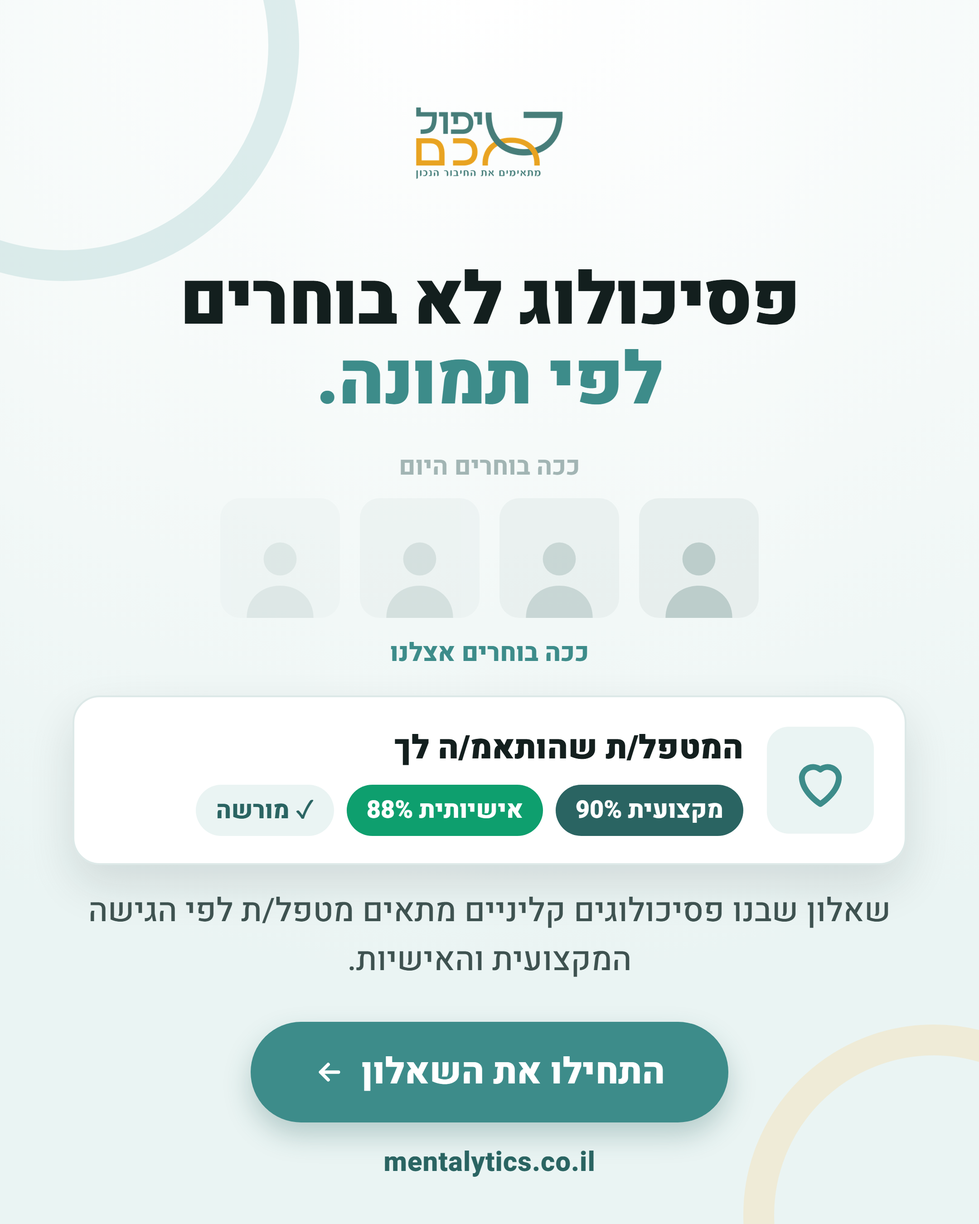
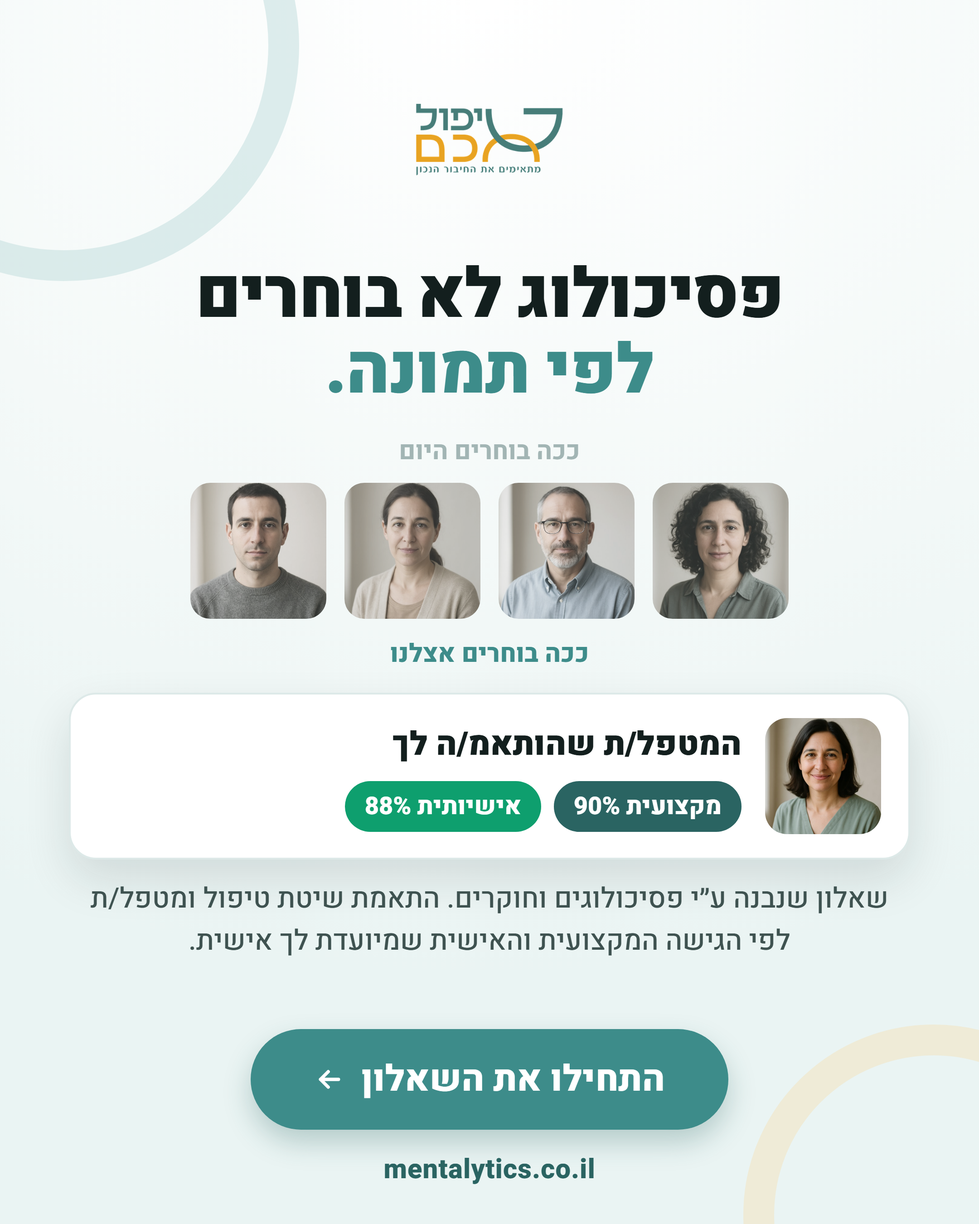
feat(ads): the owner's round of edits to the Facebook kit, with real faces
- Patients A shows AI-generated therapist portraits in the "how people choose
  today" row and in the matched card (no name or licence on any face).
- Patients B opens with "מחפשים פסיכולוג?"; a -safe twin opens with
  "איך מוצאים פסיכולוג?" in case Meta reads the first as a personal attribute.
- Both patient ads and both recruitment ads carry the owner's "built by
  psychologists and researchers" line; recruitment gets his chip.
- The free/promoted line says "refund if there are no contacts", which is
  what the purchase terms promise, not "no suitable contacts".
- The copy doc covers setting up from the phone and quotes the July ads.

diff --git a/docs/ads-images/meta-2026-09/gen.py b/docs/ads-images/meta-2026-09/gen.py
@@ -28,20 +28,20 @@ HEAD = """<!doctype html><html dir="rtl" lang="he"><head><meta charset="utf-8">
 *{box-sizing:border-box;margin:0;padding:0}
 html,body{width:1080px;height:1350px;overflow:hidden;font-family:Heebo,sans-serif;color:var(--text)}
 body{background:radial-gradient(120% 80% at 50% 0%,#ffffff 0%,#F4F9F8 55%,var(--teal-pale) 100%);
- display:flex;flex-direction:column;align-items:center;padding:52px 80px 46px;position:relative}
+ display:flex;flex-direction:column;align-items:center;padding:48px 76px 38px;position:relative}
 .ring{position:absolute;border-radius:50%;border:34px solid;opacity:.55;pointer-events:none}
 .logo{width:210px;height:auto;margin-bottom:26px}
 .chip{display:inline-block;background:var(--gold-pale);color:var(--gold-dark);border:2px solid #F0DDB0;
  font-weight:800;font-size:30px;border-radius:50px;padding:10px 30px;margin-bottom:26px}
 h1{font-weight:900;font-size:84px;line-height:1.1;text-align:center;letter-spacing:-1px}
 h1 em{font-style:normal;color:var(--teal)}
-.sub{font-size:36px;line-height:1.5;color:var(--text-2);text-align:center;margin-top:24px;margin-bottom:34px;font-weight:500}
+.sub{font-size:36px;line-height:1.5;color:var(--text-2);text-align:center;margin-top:20px;margin-bottom:26px;font-weight:500}
 .btn{margin-top:auto;background:var(--teal);color:#fff;font-weight:800;font-size:40px;border-radius:60px;
  padding:26px 70px;box-shadow:0 14px 30px rgba(42,100,98,.28);display:flex;align-items:center;gap:18px}
 .url{margin-top:22px;font-size:30px;font-weight:800;color:var(--teal-dark);letter-spacing:.5px;direction:ltr}
 .card{background:#fff;border:2px solid var(--line);border-radius:30px;box-shadow:0 22px 50px rgba(19,31,30,.12)}
 .check{display:flex;align-items:center;gap:22px;background:#fff;border:2px solid var(--line);border-radius:60px;
- padding:20px 32px;font-size:34px;font-weight:700;color:var(--text-2);margin-top:18px;width:100%}
+ padding:16px 28px;font-size:31px;font-weight:700;color:var(--text-2);margin-top:14px;width:100%}
 .check i{flex:none;width:46px;height:46px;border-radius:50%;background:var(--teal-pale);display:flex;align-items:center;justify-content:center}
 </style></head><body>
 <div class="ring" style="width:520px;height:520px;top:-210px;left:-190px;border-color:var(--teal-mid)"></div>
@@ -54,6 +54,19 @@ ARROW = ('<svg width="34" height="34" viewBox="0 0 24 24"><path d="M19 12H5M11 6
          'stroke="#fff" stroke-width="2.6" stroke-linecap="round" stroke-linejoin="round"/></svg>')
 
 
+PORTRAITS = os.path.join(W, "portraits")
+# The owner's own wording (21/9/2026). The refund line follows the purchase terms
+# (section 9): a refund for the first two months only if no contact came in at all.
+SUB_PATIENTS = "שאלון שנבנה ע״י פסיכולוגים וחוקרים. התאמת שיטת טיפול ומטפל/ת לפי הגישה המקצועית והאישית שמיועדת לך אישית."
+SUB_RECRUIT = "שאלון שנבנה ע״י פסיכולוגים וחוקרים. התאמת שיטת טיפול ומטפל/ת לפי הגישה המקצועית."
+CHIP_RECRUIT = "פסיכולוג/עו״ס/מטפלת רגשית?"
+REFUND = "מסלול חינמי, ומסלול מקודם עם החזר אם אין פניות"
+
+
+def face(name):
+    return "file:///" + os.path.join(PORTRAITS, name + ".jpg").replace("\\", "/")
+
+
 def foot(label):
     return '<div class="btn">' + label + ARROW + '</div><div class="url">mentalytics.co.il</div></body></html>'
 
@@ -62,39 +75,36 @@ def head():
     return HEAD.replace("%(logo)s", LOGO)
 
 
-def silhouette(op):
-    return ('<div style="width:132px;height:132px;border-radius:22px;background:#E6EEED;opacity:' + op +
-            ';display:flex;align-items:flex-end;justify-content:center;overflow:hidden">'
-            '<svg width="104" height="104" viewBox="0 0 24 24"><circle cx="12" cy="9" r="4.2" fill="#B7C9C7"/>'
-            '<path d="M3.5 24c0-5 3.8-8.2 8.5-8.2S20.5 19 20.5 24z" fill="#B7C9C7"/></svg></div>')
+def photo(name, today):
+    # "Today" faces are slightly muted: the row is the directory experience, not the product.
+    filt = "filter:saturate(.55);opacity:.82;" if today else ""
+    return ('<img src="' + face(name) + '" style="width:150px;height:150px;border-radius:22px;object-fit:cover;' + filt + '">')
 
 
 def p_a():
     """Patients A: the contrast. How people pick today (a wall of photos) against a match."""
-    photos = "".join(silhouette(o) for o in (".9", ".7", ".5", ".35"))
-    match = """<div class="card" style="width:100%;padding:30px 34px;margin-top:26px;display:flex;align-items:center;gap:26px">
- <div style="flex:none;width:118px;height:118px;border-radius:24px;background:var(--teal-pale);display:flex;align-items:center;justify-content:center">
-  <svg width="70" height="70" viewBox="0 0 24 24"><path d="M12 21s-7-4.4-7-10.2A4.3 4.3 0 0 1 12 8a4.3 4.3 0 0 1 7 2.8C19 16.6 12 21 12 21z" fill="none" stroke="#3D8C8A" stroke-width="2.2" stroke-linejoin="round"/></svg></div>
+    photos = "".join(photo("grid-" + str(i), True) for i in (1, 2, 3, 4))
+    match = """<div class="card" style="width:100%;padding:26px 30px;margin-top:22px;display:flex;align-items:center;gap:26px">
+ <img src='""" + face("match") + """' style="flex:none;width:128px;height:128px;border-radius:24px;object-fit:cover">
  <div style="flex:1">
   <div style="font-size:36px;font-weight:900">המטפל/ת שהותאמ/ה לך</div>
   <div style="display:flex;gap:14px;margin-top:14px;flex-wrap:wrap">
    <span style="background:var(--teal-dark);color:#fff;border-radius:40px;padding:8px 22px;font-size:27px;font-weight:800">מקצועית 90%</span>
    <span style="background:#0E9F6E;color:#fff;border-radius:40px;padding:8px 22px;font-size:27px;font-weight:800">אישיותית 88%</span>
-   <span style="background:var(--teal-pale);color:var(--teal-dark);border-radius:40px;padding:8px 22px;font-size:27px;font-weight:800">&#x2713; מורשה</span>
   </div></div></div>"""
     return head() + """
-<h1 style="font-size:80px">פסיכולוג לא בוחרים<br><em>לפי תמונה.</em></h1>
-<div style="width:100%;margin-top:30px">
+<h1 style="font-size:76px">פסיכולוג לא בוחרים<br><em>לפי תמונה.</em></h1>
+<div style="width:100%;margin-top:26px">
  <div style="font-size:28px;font-weight:700;color:var(--faint);text-align:center;margin-bottom:14px">ככה בוחרים היום</div>
- <div style="display:flex;justify-content:center;gap:22px">""" + photos + """</div>
+ <div style="display:flex;justify-content:center;gap:20px">""" + photos + """</div>
  <div style="text-align:center;margin:18px 0 0;font-size:28px;font-weight:800;color:var(--teal)">ככה בוחרים אצלנו</div>
  """ + match + """
 </div>
-<div class="sub">שאלון שבנו פסיכולוגים קליניים מתאים מטפל/ת לפי הגישה המקצועית והאישיות.</div>
+<div class="sub" style="font-size:31px">""" + SUB_PATIENTS + """</div>
 """ + foot("התחילו את השאלון")
 
 
-def p_b():
+def p_b(hook="מחפשים פסיכולוג?"):
     """Patients B: the process. Three steps, credibility first."""
     steps = [("1", "שאלון קצר ואנונימי", "בלי הרשמה ובלי פרטים מזהים"),
              ("2", "המלצה על סוג הטיפול", "לפי המחקר, עם הסבר במילים פשוטות"),
@@ -102,15 +112,16 @@ def p_b():
     rows = ""
     for n, t, d in steps:
         bg = "var(--gold)" if n == "3" else "var(--teal)"
-        rows += ('<div class="card" style="display:flex;align-items:center;gap:28px;padding:26px 32px;margin-top:20px;width:100%">'
+        rows += ('<div class="card" style="display:flex;align-items:center;gap:28px;padding:18px 30px;margin-top:14px;width:100%">'
                  '<div style="flex:none;width:84px;height:84px;border-radius:50%;background:' + bg +
                  ';color:#fff;font-size:44px;font-weight:900;display:flex;align-items:center;justify-content:center">' + n + '</div>'
                  '<div><div style="font-size:38px;font-weight:900">' + t + '</div>'
                  '<div style="font-size:29px;color:var(--muted);margin-top:4px;font-weight:500">' + d + '</div></div></div>')
     return head() + """
-<h1>התאמה מקצועית,<br><em>לא ניחוש.</em></h1>
-<div style="width:100%;margin-top:34px">""" + rows + """</div>
-<div class="sub">נבנה על ידי פסיכולוגים קליניים. חינם ואנונימי.</div>
+<div style="font-size:52px;font-weight:900;color:var(--gold-dark);text-align:center">""" + hook + """</div>
+<h1 style="font-size:70px;margin-top:4px">התאמה מקצועית,<br><em>לא ניחוש.</em></h1>
+<div style="width:100%;margin-top:26px">""" + rows + """</div>
+<div class="sub" style="font-size:31px">""" + SUB_PATIENTS + """</div>
 """ + foot("למילוי השאלון")
 
 
@@ -119,28 +130,34 @@ def r_a():
     checks = "".join('<div class="check">' + TICK + '<span>' + c + '</span></div>' for c in (
         "פניות לפי שיטת הטיפול והסגנון שלך",
         "פרופיל מקצועי ונתוני צפיות ופניות",
-        "מסלול חינמי, ומסלול מקודם עם החזר"))
+        REFUND))
     return head() + """
-<div class="chip">לפסיכולוגים, עו״ס ומטפלים</div>
-<h1 style="font-size:76px">מטופלים שמגיעים אלייך<br><em>אחרי התאמה,</em><br>לא אחרי תמונה.</h1>
-<div style="width:100%;margin-top:36px">""" + checks + """</div>
+<div class="chip">""" + CHIP_RECRUIT + """</div>
+<h1 style="font-size:70px">מטופלים שמגיעים אלייך<br><em>אחרי התאמה,</em><br>לא אחרי תמונה.</h1>
+<div style="width:100%;margin-top:30px">""" + checks + """</div>
+<div class="sub" style="font-size:31px">""" + SUB_RECRUIT + """</div>
 """ + foot("לפרטים והצטרפות")
 
 
 def r_b():
     """Recruitment B: the question. Rebuilt from the July ad B, which drew more visits."""
     return head() + """
-<div class="chip">לפסיכולוגים, עו״ס ומטפלים</div>
-<h1 style="font-size:78px;margin-top:10px">כמה שיחות ראשונות<br>נגמרות במשפט<br><em>״זה לא מתאים״?</em></h1>
-<div class="card" style="width:100%;margin-top:44px;padding:36px 40px">
+<div class="chip">""" + CHIP_RECRUIT + """</div>
+<h1 style="font-size:70px;margin-top:4px">כמה שיחות ראשונות<br>נגמרות במשפט<br><em>״זה לא מתאים״?</em></h1>
+<div class="card" style="width:100%;margin-top:34px;padding:30px 36px">
  <div style="font-size:36px;line-height:1.55;color:var(--text-2);font-weight:500;text-align:center">
   טיפול חכם מפנה אלייך מטופלים אחרי <b style="color:var(--teal-dark)">שאלון מקצועי</b> שמתאים בין הצורך שלהם לבין הגישה והאישיות שלך.</div>
 </div>
-<div class="sub" style="font-size:32px">נבנה על ידי פסיכולוג קליני, על בסיס מחקר וניסיון קליני.</div>
+<div class="check" style="margin-top:22px">""" + TICK + """<span>""" + REFUND + """</span></div>
+<div class="sub" style="font-size:31px">""" + SUB_RECRUIT + """</div>
 """ + foot("איך זה עובד")
 
 
-FILES = {"fb-patients-a": p_a, "fb-patients-b": p_b, "fb-recruit-a": r_a, "fb-recruit-b": r_b}
+FILES = {"fb-patients-a": p_a, "fb-patients-b": p_b,
+         # Same ad with a hook that asks nothing of the viewer, in case Meta reads
+         # "מחפשים פסיכולוג?" as implying a personal attribute and rejects the owner's version.
+         "fb-patients-b-safe": lambda: p_b("איך מוצאים פסיכולוג?"),
+         "fb-recruit-a": r_a, "fb-recruit-b": r_b}
 
 if __name__ == "__main__":
     for name, build in FILES.items():

diff --git a/docs/ads-images/meta-2026-09/gen_portraits.py b/docs/ads-images/meta-2026-09/gen_portraits.py
@@ -1,0 +1,58 @@
+# -*- coding: utf-8 -*-
+"""AI-generated therapist portraits for the patients ads (21/9/2026, at the owner's request).
+
+Five faces: four for the "how people choose today" row and one for the matched card.
+They are illustrations only. None of them carries a name, a licence or any claim,
+so no image presents a fictional person as a real listed therapist.
+
+Reads OPENAI_API_KEY from the repo's .env.local. Run once; the ad generator (gen.py)
+picks up whatever is in portraits/.
+"""
+import base64, json, os, urllib.request
+
+W = os.path.dirname(os.path.abspath(__file__))
+REPO = os.path.abspath(os.path.join(W, "..", "..", ".."))
+OUT = os.path.join(W, "portraits")
+os.makedirs(OUT, exist_ok=True)
+
+
+def key():
+    for line in open(os.path.join(REPO, ".env.local"), encoding="utf-8"):
+        if line.startswith("OPENAI_API_KEY="):
+            return line.split("=", 1)[1].strip().strip('"')
+    raise SystemExit("OPENAI_API_KEY missing")
+
+
+BASE = ("Professional headshot photograph of an Israeli psychotherapist, head and shoulders, "
+        "looking at the camera, soft natural window light, plain light neutral background, "
+        "realistic photo, shallow depth of field, no text, no logos, no jewellery that draws the eye. ")
+
+PEOPLE = {
+    "grid-1": "Woman in her late 30s, dark curly hair, friendly neutral expression, casual blouse.",
+    "grid-2": "Man in his 50s, short grey beard, glasses, button-down shirt, calm expression.",
+    "grid-3": "Woman in her 40s, straight brown hair tied back, light cardigan, slight smile.",
+    "grid-4": "Man in his early 30s, short dark hair, clean shaven, knit sweater, neutral expression.",
+    "match":  "Woman in her mid 40s, shoulder-length dark hair, warm genuine smile, approachable, "
+              "soft green blouse, the kind of face you would trust in a first session.",
+}
+
+
+def generate(prompt):
+    body = json.dumps({"model": "gpt-image-1", "prompt": BASE + prompt, "size": "1024x1024",
+                       "quality": "medium", "n": 1}).encode()
+    req = urllib.request.Request("https://api.openai.com/v1/images/generations", data=body,
+                                 headers={"Authorization": "Bearer " + key(), "Content-Type": "application/json"})
+    with urllib.request.urlopen(req, timeout=180) as r:
+        return base64.b64decode(json.load(r)["data"][0]["b64_json"])
+
+
+if __name__ == "__main__":
+    for name, desc in PEOPLE.items():
+        path = os.path.join(OUT, name + ".jpg")
+        if os.path.exists(path):
+            print("skip", name)
+            continue
+        import io as _io
+        from PIL import Image
+        Image.open(_io.BytesIO(generate(desc))).convert("RGB").resize((512, 512)).save(path, "JPEG", quality=88)
+        print("ok", name)

diff --git a/docs/ads-copy/meta-2026-09.md b/docs/ads-copy/meta-2026-09.md
@@ -1,7 +1,10 @@
 # פייסבוק ואינסטגרם - חזרה לפרסום, ספטמבר 2026
 
 שני קמפיינים, בכל אחד שתי גרסאות. מסמך העתק-הדבק: כל מה שצריך כדי להקים את
-הקמפיינים ידנית, ממחשב אחר, בלי שום כלי אוטומטי.
+הקמפיינים ידנית מהטלפון, בלי שום כלי אוטומטי.
+
+עודכן 21/9/2026 לפי הערות הבעלים: כותרת "מחפשים פסיכולוג?", תמונות מטפלים,
+שורת "שאלון שנבנה ע״י פסיכולוגים וחוקרים", ושורת המסלולים בשתי מודעות הגיוס.
 
 התמונות: `docs/ads-images/meta-2026-09/` (4:5, 2160x2700, המחולל `gen.py` באותה תיקייה).
 עותק של התמונות ושל המסמך נמצא גם בדרופבוקס: `Mentalitics\שיווק\פייסבוק ספטמבר 2026`.
@@ -15,9 +18,10 @@
    הסטטוס (מייל מ-Meta, תמיכת Meta Verified אם המנוי פעיל, או כניסה אחת מתוכננת
    ל-Account Quality), ורק אז מקימים.
 2. **אף סוכן, תוסף או סקריפט לא נוגע ב-Meta.** זה מה שגרם לחסימה ב-4 ביולי. הכל ידני.
-3. **הכניסה לפייסבוק מאותו מכשיר ורשת שהחשבון מכיר.** מכשיר חדש על חשבון שמסווג
-   "עלול להיות פרוץ" הוא בעצמו סימן אזהרה. התמונות והמסמך הם קבצים רגילים, ואפשר
-   להעביר אותם לכל מחשב: הם לא נושאים שום מידע על המחשב שיצר אותם.
+3. **מהטלפון שהחשבון כבר מכיר.** זה הטלפון שבו החשבון עובד יומיים בלי בעיות, וזה
+   נכון: מכשיר חדש על חשבון שמסווג "עלול להיות פרוץ" הוא בעצמו סימן אזהרה. הטלפון
+   פותר את שאלת המכשיר, לא את שאלת הדגל: הפעולה הראשונה בו צריכה להיות מבט על
+   הסטטוס, לא יצירת קמפיין. התמונות הן קבצים רגילים, בלי מידע על המחשב שיצר אותן.
 
 ---
 
@@ -27,10 +31,16 @@
 הראשי זהה בשתי הגרסאות, ומשתנים רק התמונה והכותרת. כך ההבדל בתוצאות נובע מהזווית
 ולא מעשרה דברים שהשתנו יחד.
 
-**איך מקימים:** ב-Ads Manager, כלי ה-A/B Test (Experiments) עם המשתנה Creative. הוא
-מחלק את הקהל לשני חצאים שלא חופפים ומחלק את התקציב שווה בשווה. חלופה: שתי קבוצות
-מודעות עם אותו קהל ואותו תקציב, מודעה אחת בכל אחת. לא לשים את שתי המודעות באותה
-קבוצת מודעות: שם Meta מעדיפה אחת מהר מאוד והטסט לא נמדד.
+**איך מקימים מהטלפון:** באפליקציית **Meta Ads Manager** (קיימת ופעילה ב-Google Play
+וב-App Store), דרך "יצירת קמפיין" עם מטרת Traffic. **לא** דרך כפתור "קידום פוסט" בעמוד:
+זה מה שכנראה קרה ביולי, והוא לא מאפשר טסט אמיתי.
+
+**מבנה הטסט:** אם האפליקציה מציעה A/B Test עם המשתנה Creative, להשתמש בו. הוא מחלק
+את הקהל לשני חצאים שלא חופפים ואת התקציב שווה בשווה. אם לא, שתי קבוצות מודעות עם
+אותו קהל ואותו תקציב, מודעה אחת בכל אחת. לא לשים את שתי המודעות באותה קבוצת
+מודעות: שם Meta מעדיפה אחת מהר מאוד והטסט לא נמדד.
+
+**הכתובת:** להדביק את הכתובת המלאה, כולל כל מה שאחרי סימן השאלה, בשדה Website URL.
 
 | | |
 |---|---|
@@ -66,7 +76,7 @@ Meta תתאים אותן גם לסטוריז.
 ```
 רוב האנשים בוחרים פסיכולוג לפי תמונה ושורה בפרופיל.
 
-בטיפול חכם עונים על שאלון קצר שבנו פסיכולוגים קליניים, ומקבלים המלצה על סוג הטיפול ורשימת מטפלים מורשים, מדורגת לפי התאמה מקצועית ואישיותית, עם הסבר למה.
+בטיפול חכם עונים על שאלון קצר שנבנה על ידי פסיכולוגים וחוקרים, ומקבלים המלצה על שיטת הטיפול ורשימת מטפלים מורשים, מדורגת לפי התאמה מקצועית ואישיותית, עם הסבר למה.
 
 חינם ואנונימי, בלי הרשמה.
 ```
@@ -85,11 +95,22 @@ Meta תתאים אותן גם לסטוריז.
 
 | שדה | ערך |
 |---|---|
-| תמונה | `fb-patients-b.png` |
+| תמונה | `fb-patients-b.png` (בראש התמונה: "מחפשים פסיכולוג?") |
 | כותרת | התאמה מקצועית, לא ניחוש |
 | תיאור | שאלון קצר, המלצה ומטפלים מדורגים |
 | כפתור | מידע נוסף (Learn more) |
 | כתובת | `https://www.mentalytics.co.il/lp/story-c?utm_source=facebook&utm_medium=paid&utm_campaign=fb-patients-b` |
+
+**חלופה מוכנה לגרסה B:** `fb-patients-b-safe.png`, זהה לגמרי חוץ מהשורה העליונה,
+שבה כתוב "איך מוצאים פסיכולוג?". מדיניות Personal Attributes של Meta פוסלת פנייה
+בגוף שני שמרמזת שהקורא צריך טיפול נפשי. "מחפשים פסיכולוג?" לא מזכיר שום מצב,
+ולכן סביר שיעבור, אבל הוא על הגבול. אם Meta תדחה את B, להחליף לחלופה בלי לשנות
+שום דבר אחר. בחשבון עם היסטוריית אכיפה, כדאי לשקול להתחיל ישר עם החלופה: כל דחייה
+נרשמת בחשבון.
+
+**התמונות של המטפלים בגרסה A נוצרו ב-AI.** אין עליהן שם, רישיון או כל טענה, כך
+שהן איור של הממשק ולא הצגה של מטפל אמיתי. שים לב שכללי העיצוב של האתר (CLAUDE.md)
+אוסרים "תמונות פרופיל מלאכותיות" באתר עצמו. במודעה זו החלטה של הבעלים.
 
 ---
 
@@ -110,6 +131,15 @@ Meta תתאים אותן גם לסטוריז.
 
 יש מסלול חינמי, ומסלול מקודם עם החזר כספי על החודשיים הראשונים אם לא התקבלה אף פנייה.
 ```
+
+**בשתי התמונות:** בראש "פסיכולוג/עו״ס/מטפלת רגשית?", בתחתית "שאלון שנבנה ע״י
+פסיכולוגים וחוקרים. התאמת שיטת טיפול ומטפל/ת לפי הגישה המקצועית.", ושורת
+"מסלול חינמי, ומסלול מקודם עם החזר אם אין פניות".
+
+**למה "אם אין פניות" ולא "אם אין פניות מתאימות":** תקנון הרכישה (סעיף 9) מבטיח
+החזר רק אם לא התקבלה אף פנייה בחודשיים הראשונים. "פניות מתאימות" היה מבטיח
+יותר מזה: מטפל שקיבל שלוש פניות שלא התאימו לו היה מצפה להחזר שאינו מגיע לו.
+אם התקנון משתנה, צריך לשנות קודם אותו ורק אחר כך את המודעה.
 
 ### גרסה A: התועלת הישירה (גרסה מקוצרת של מודעה A שרצה ביולי)
 
@@ -133,6 +163,57 @@ Meta תתאים אותן גם לסטוריז.
 
 ---
 
+## איפה כל טקסט מופיע במודעה
+
+| חלק | מיקום | אורך מומלץ |
+|---|---|---|
+| טקסט ראשי (Primary text) | מעל התמונה | 3-4 שורות מוצגות לפני "עוד" |
+| התמונה | באמצע | |
+| כותרת (Headline) | מתחת לתמונה, מודגש | עד כ-40 תווים |
+| תיאור (Description) | מתחת לכותרת, קטן | לא תמיד מוצג בנייד |
+| כפתור (CTA) | מתחת לתמונה, מימין | מתוך רשימה קבועה של Meta |
+
+## מה היה ביולי (לשם השוואה)
+
+רק שתי מודעות רצו, שתיהן לגיוס, מ-30/6 עד החסימה ב-4/7. בערך 50 ש"ח לכל מודעה,
+ליומיים. אפס הרשמות משתיהן. הכותרת בשתיהן: "פסיכולוג/ית? עו"ס? מטפל/ת?", הכפתור:
+"לפרטים". בשתיהן קרוסלה, וכנראה "קידום פוסט" ולא קמפיין Traffic.
+
+**מודעה A, "ישירה" (therapist-direct), 14 כניסות:**
+```
+הרבה פניות של מטופלים מתחילות כך:
+חיפוש בגוגל, רפרוף באתרים השונים, הודעה למטפל הרנדומלי שנמצא ראשון...
+
+אם אתם מטפלים שמעוניינים בחיבורים מדוייקים יותר למטופלים החל מהשיחה הראשונה, מקומכם איתנו 🙂
+
+מיזם "בטיפול חכם" עוזרת למטופלים לדייק את החיפוש והפנייה שלהם למטפלים כך שהם מגיעים אליכם אחרי תהליך התאמה ראשוני שמאפשר אחוזי התאמה גבוהים יותר.
+
+בנינו שאלון מקצועי שמלווה את המטופל בתהליך החיפוש עוד לפני שהוא מגיע אלייך.
+
+רוצה להבין יותר?
+
+כנס/י לאתר 🙂
+```
+
+**מודעה B, "מעוררת" (therapist-evocative), 46 כניסות:**
+```
+מטפל רגשי/פסיכולוג/עו"ס?
+
+כמה פעמים קיבלת פנייה לקליניקה, השקעת בשיחה הראשונית אבל אז הבנת שזו לא ההתאמה המדויקת לך או למטופל?
+
+בדיוק בשביל זה הקמנו את 'טיפול חכם'.
+מיזם שמחבר מטופלים למטפלים לפי התאמה מקצועית ואישיותית.
+
+בנינו שאלון מקצועי, מבוסס מחקר וניסיון קליני, שמלווה את המטופל בתהליך החיפוש עוד לפני שהוא מגיע אלייך.
+
+רוצה להבין טוב יותר איך זה עובד ולהיות חלק מקהילת המטפלים שלנו?
+הצטרפ/י אלינו
+```
+
+הטקסטים החדשים קצרים יותר בכוונה. אחד הלקחים מיולי היה שיש יותר מדי טקסט.
+
+---
+
 ## איך קוראים את התוצאות
 
 **ב-Meta:** אחוז הקלקה על הקישור (CTR link) ועלות לקליק. אלה מראים איזו זווית עוצרת
@@ -151,7 +232,7 @@ Meta תתאים אותן גם לסטוריז.
 - **מדיניות Personal Attributes של Meta.** מודעה לא תטען ולא תרמוז על מצב נפשי של
   הקורא. גם שאלה כמו "מתמודדים עם חרדה?" נפסלת. כל הנוסחים כאן מדברים על השירות
   ועל הבחירה, לא על הקורא. לכן גם לא נעשה שימוש בתמונות "הדוח האישי שלך" של גוגל,
-  שמציגות אחוזי "עומס רגשי" מול הקורא.
+  שמציגות אחוזי "עומס רגשי" מול הקורא. "מחפשים פסיכולוג?" על הגבול, ולכן יש חלופה.
 - **בלי מקף ארוך.** בשום טקסט ובשום תמונה.
 - **UTM בכל מודעה, עם utm_campaign נפרד לכל גרסה.** בלי זה האתר סופר את הקליקים
   כאורגניים ואי אפשר להשוות.
